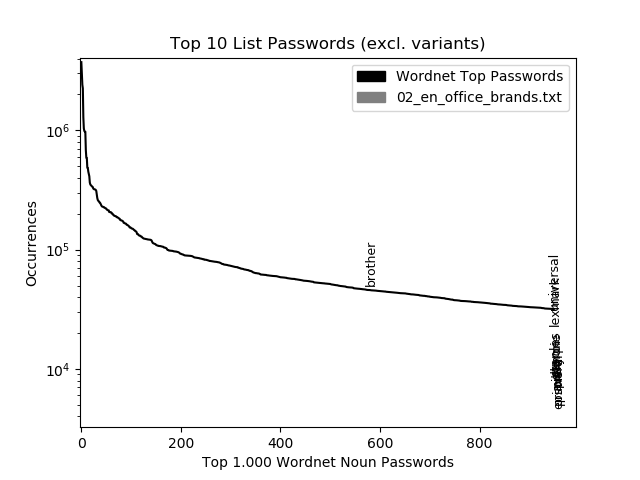
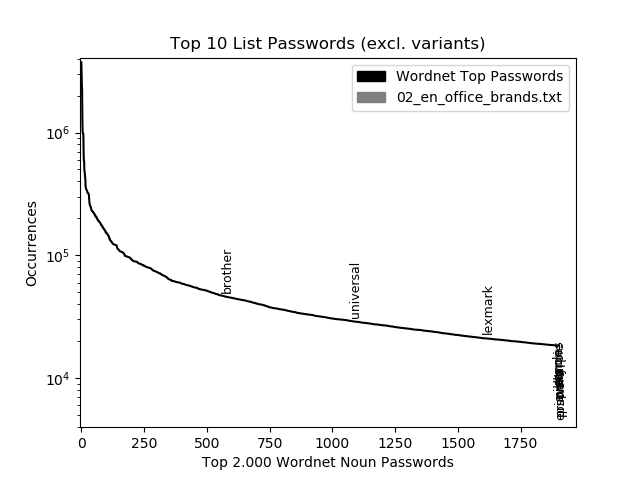
updated wn loc images

diff --git a/finalgraphs.py b/finalgraphs.py
@@ -294,34 +294,34 @@ def main():
     #
     # Locate the top n passwords from a category list on the top n passwords of the Wordnet
     #
-    # locate_topn_list_pws_wn("01_en_office_supplies.txt", top=10, include_perms=False)
-    # locate_topn_list_pws_wn("01_en_office_supplies.txt", top=10, include_perms=True)
-    # locate_topn_list_pws_wn("02_en_office_brands.txt", top=10, include_perms=False)
-    # locate_topn_list_pws_wn("02_en_office_brands.txt", top=10, include_perms=True)
-    # locate_topn_list_pws_wn("03_keyboard_patterns.txt", top=10, include_perms=False)
-    # locate_topn_list_pws_wn("03_keyboard_patterns.txt", top=10, include_perms=True)
-    # locate_topn_list_pws_wn("05_en_financial_brands.txt", top=10, include_perms=False)
-    # locate_topn_list_pws_wn("05_en_financial_brands.txt", top=10, include_perms=True)
-    # locate_topn_list_pws_wn("06_en_cities.txt", top=10, include_perms=False)
-    # locate_topn_list_pws_wn("06_en_cities.txt", top=10, include_perms=True)
-    # locate_topn_list_pws_wn("07_first_names.txt", top=10, include_perms=False)
-    # locate_topn_list_pws_wn("07_first_names.txt", top=10, include_perms=True)
-    # locate_topn_list_pws_wn("08_last_names.txt", top=10, include_perms=False)
-    # locate_topn_list_pws_wn("08_last_names.txt", top=10, include_perms=True)
-    # locate_topn_list_pws_wn("09_en_countries.txt", top=10, include_perms=False)
-    # locate_topn_list_pws_wn("09_en_countries.txt", top=10, include_perms=True)
-    # locate_topn_list_pws_wn("10_automobile.txt", top=10, include_perms=False)
-    # locate_topn_list_pws_wn("10_automobile.txt", top=10, include_perms=True)
-    # locate_topn_list_pws_wn("11_software_names.txt", top=10, include_perms=False)
-    # locate_topn_list_pws_wn("11_software_names.txt", top=10, include_perms=True)
-    # locate_topn_list_pws_wn("12_tech_brands.txt", top=10, include_perms=False)
-    # locate_topn_list_pws_wn("12_tech_brands.txt", top=10, include_perms=True)
-    # locate_topn_list_pws_wn("13_en_fruit.txt", top=10, include_perms=False)
-    # locate_topn_list_pws_wn("13_en_fruit.txt", top=10, include_perms=True)
-    # locate_topn_list_pws_wn("14_en_drinks.txt", top=10, include_perms=False)
-    # locate_topn_list_pws_wn("14_en_drinks.txt", top=10, include_perms=True)
-    # locate_topn_list_pws_wn("15_en_food.txt", top=10, include_perms=False)
-    # locate_topn_list_pws_wn("15_en_food.txt", top=10, include_perms=True)    
+    locate_topn_list_pws_wn("01_en_office_supplies.txt", top=10, include_perms=False, wn_lim=2000)
+    locate_topn_list_pws_wn("01_en_office_supplies.txt", top=10, include_perms=True, wn_lim=2000)
+    locate_topn_list_pws_wn("02_en_office_brands.txt", top=10, include_perms=False, wn_lim=2000)
+    locate_topn_list_pws_wn("02_en_office_brands.txt", top=10, include_perms=True, wn_lim=2000)
+    locate_topn_list_pws_wn("03_keyboard_patterns.txt", top=10, include_perms=False, wn_lim=2000)
+    locate_topn_list_pws_wn("03_keyboard_patterns.txt", top=10, include_perms=True, wn_lim=2000)
+    locate_topn_list_pws_wn("05_en_financial_brands.txt", top=10, include_perms=False, wn_lim=2000)
+    locate_topn_list_pws_wn("05_en_financial_brands.txt", top=10, include_perms=True, wn_lim=2000)
+    locate_topn_list_pws_wn("06_en_cities.txt", top=10, include_perms=False, wn_lim=2000)
+    locate_topn_list_pws_wn("06_en_cities.txt", top=10, include_perms=True, wn_lim=2000)
+    locate_topn_list_pws_wn("07_first_names.txt", top=10, include_perms=False, wn_lim=2000)
+    locate_topn_list_pws_wn("07_first_names.txt", top=10, include_perms=True, wn_lim=2000)
+    locate_topn_list_pws_wn("08_last_names.txt", top=10, include_perms=False, wn_lim=2000)
+    locate_topn_list_pws_wn("08_last_names.txt", top=10, include_perms=True, wn_lim=2000)
+    locate_topn_list_pws_wn("09_en_countries.txt", top=10, include_perms=False, wn_lim=2000)
+    locate_topn_list_pws_wn("09_en_countries.txt", top=10, include_perms=True, wn_lim=2000)
+    locate_topn_list_pws_wn("10_automobile.txt", top=10, include_perms=False, wn_lim=2000)
+    locate_topn_list_pws_wn("10_automobile.txt", top=10, include_perms=True, wn_lim=2000)
+    locate_topn_list_pws_wn("11_software_names.txt", top=10, include_perms=False, wn_lim=2000)
+    locate_topn_list_pws_wn("11_software_names.txt", top=10, include_perms=True, wn_lim=2000)
+    locate_topn_list_pws_wn("12_tech_brands.txt", top=10, include_perms=False, wn_lim=2000)
+    locate_topn_list_pws_wn("12_tech_brands.txt", top=10, include_perms=True, wn_lim=2000)
+    locate_topn_list_pws_wn("13_en_fruit.txt", top=10, include_perms=False, wn_lim=2000)
+    locate_topn_list_pws_wn("13_en_fruit.txt", top=10, include_perms=True, wn_lim=2000)
+    locate_topn_list_pws_wn("14_en_drinks.txt", top=10, include_perms=False, wn_lim=2000)
+    locate_topn_list_pws_wn("14_en_drinks.txt", top=10, include_perms=True, wn_lim=2000)
+    locate_topn_list_pws_wn("15_en_food.txt", top=10, include_perms=False, wn_lim=2000)
+    locate_topn_list_pws_wn("15_en_food.txt", top=10, include_perms=True, wn_lim=2000)    
     # =============================================================================================================================================
     #
     # Print stats for the all parts of speech of the Wordnet
@@ -1064,12 +1064,12 @@ def password_list_coverage():
     plt.show()
 
 
-def locate_topn_list_pws_hibp(list_name, top=10, include_perms=False):
+def locate_topn_list_pws_hibp(list_name, top=10, include_perms=False, hipb_lim=1000):
     """
     Mark the top N passwords of a given list within the top N passwords of the wordnet.
     On the X axis, mark each 50th step.
     """
-    hibp_limit = 2000
+    hibp_limit = hipb_lim
     # Get top n from some list
     pw_list = []
     if include_perms:
@@ -1505,13 +1505,13 @@ def examples_duplicates():
     pass
 
 
-def locate_topn_list_pws_wn(list_name, top=10, include_perms=False):
+def locate_topn_list_pws_wn(list_name, top=10, include_perms=False, wn_lim=1000):
     """
     Mark the top N passwords of a given list within the top N passwords of the wordnet.
     On the X axis, mark each 50th step.
     """
     # Read the top wn_limit passwords generated from the WordNet
-    wn_limit = 1000
+    wn_limit = wn_lim
     f, ax = plt.subplots(1)
 
     limit_val = top
@@ -1582,7 +1582,7 @@ def locate_topn_list_pws_wn(list_name, top=10, include_perms=False):
             "0",
         ]}
     }
-    buf_len = 1000 * 4
+    buf_len = wn_limit * 4
     top_wn_pws = mongo.db_pws_wn.find(search_filter).sort(
         "occurrences", pymongo.DESCENDING).limit(buf_len)
     for password in top_wn_pws:
